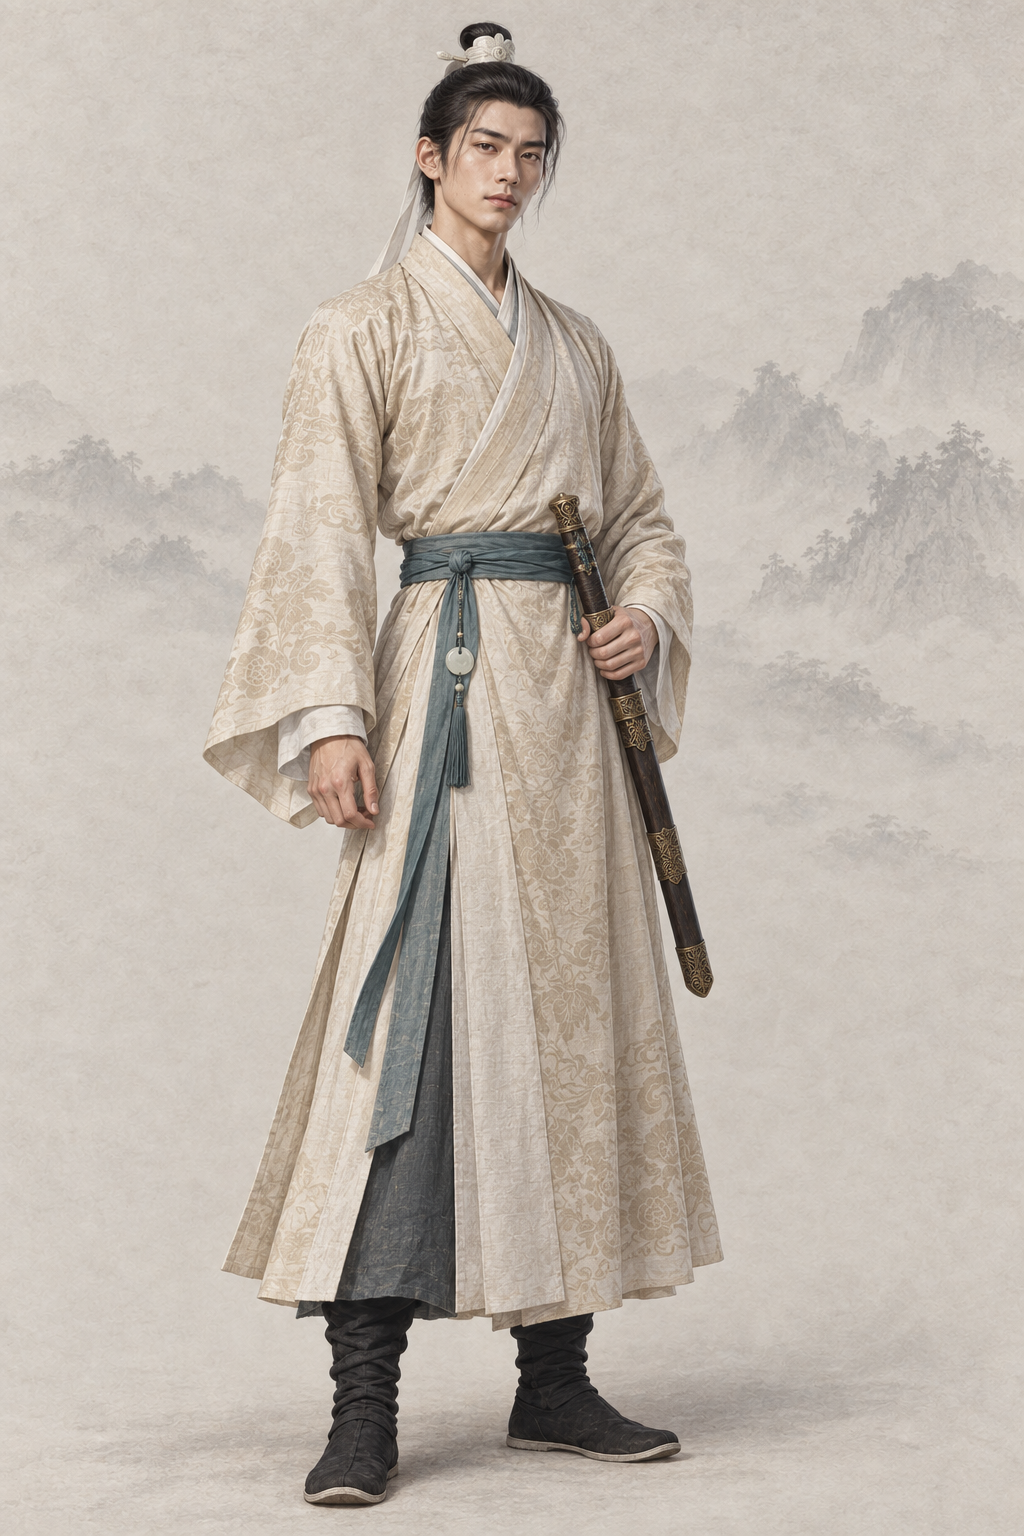
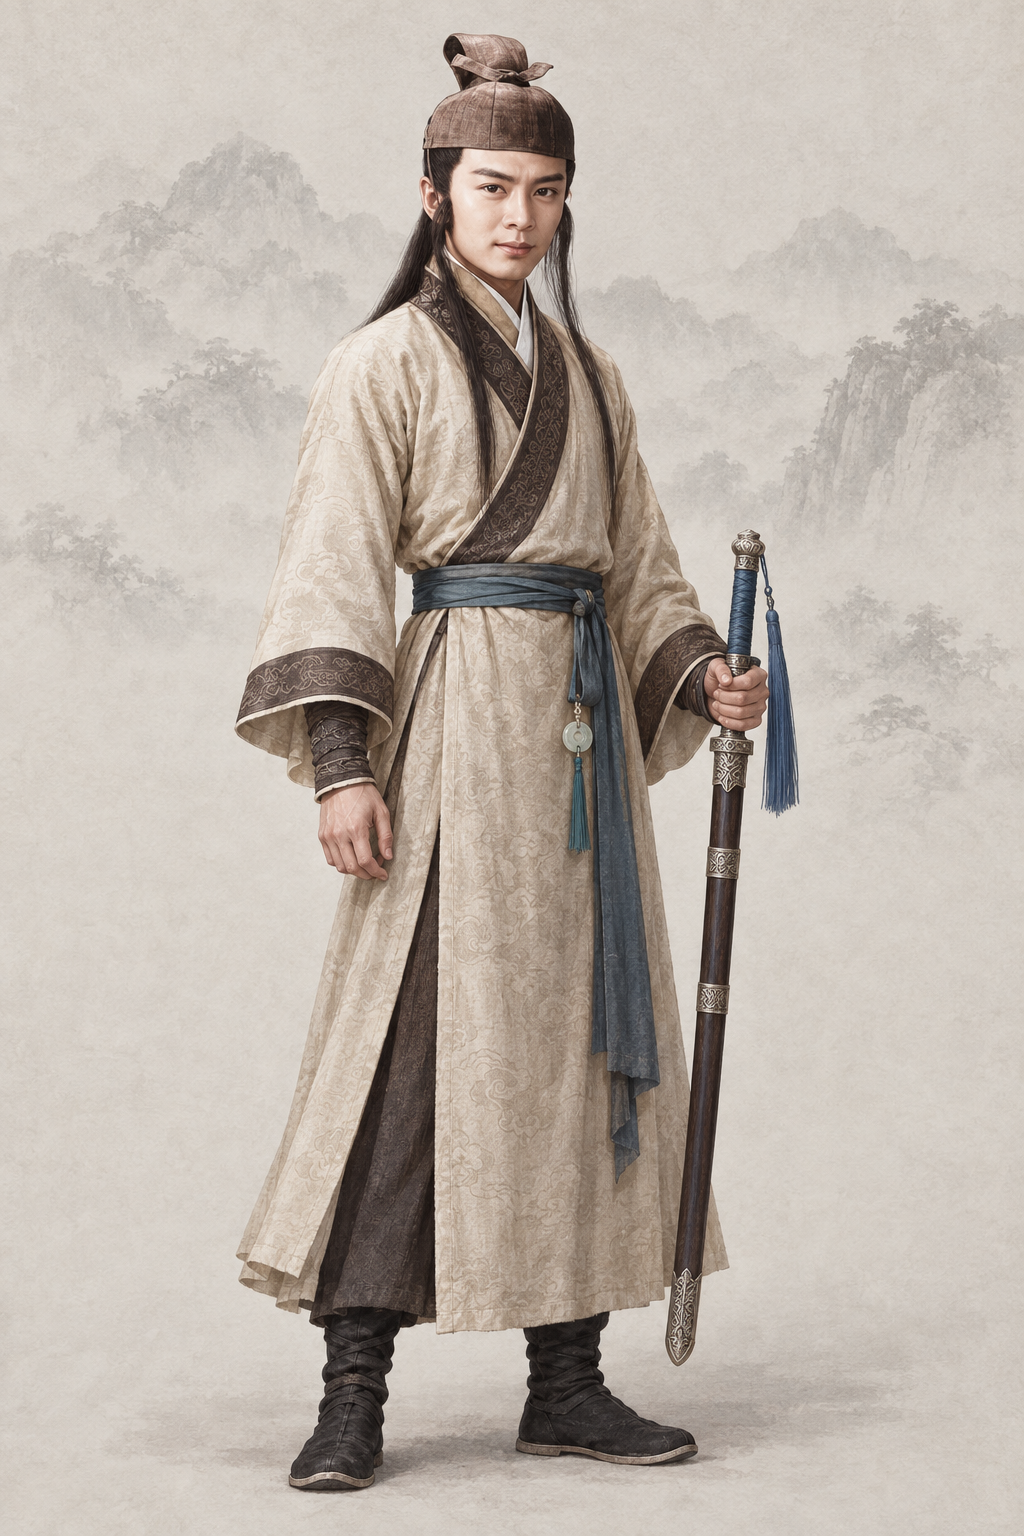
assets(character): por_npc_linpingzhi__ch05_youth_fuwei_base 林平之（codex · AR-32 1996 TVB《笑傲江湖》 剧照 + 基线）
参考 第 1–2 张为 1996 TVB《笑傲江湖》林平之剧照（linpingzhi_1996_hebaosheng_sina1.jpg、sina3.jpg）与两张同性别基线重出；提示词写回、frontmatter 加 classic_ref。

diff --git a/assets/default/prompts/characters/ch05-xiaoao/npc_linpingzhi.md b/assets/default/prompts/characters/ch05-xiaoao/npc_linpingzhi.md
@@ -17,15 +17,45 @@ references:
   use: 第三仅用户指定浅水墨背景、暖浅灰纸底、远景留白；已在本会话实际view且SHA复核。忽略女性脸、身形、衣装、发饰与头部倾角；墨色不能侵蚀人物皮肤衣料或道具。
 status: redo
 redo_reason: "现图是普通相貌、同戴网巾头箍，与令狐冲撞脸；原著林平之俊美得像姑娘，是锦衣骏马的富家少镖头。"
-reference_upload:
-- assets/default/baseline/character/male/ref_npc_linghuchong__ch05_base01.png
 realism_revision: user_identity_pose_20261001
 codex_prompt_rev: 2026-10-02
+reference_upload:
+- .agents/coord/imagegen-reference/identity-20261002/xiaoao/linpingzhi_1996_hebaosheng_sina1.jpg
+- .agents/coord/imagegen-reference/identity-20261002/xiaoao/linpingzhi_1996_hebaosheng_sina3.jpg
+- assets/default/baseline/character/male/ref_npc_linghuchong__ch05_base01.png
+- assets/default/baseline/character/male/ref_npc_xiaofeng__ch01_base01.png
+classic_ref:
+  version: 1996 TVB《笑傲江湖》
+  stills:
+  - .agents/coord/imagegen-reference/identity-20261002/xiaoao/linpingzhi_1996_hebaosheng_sina1.jpg
+  - .agents/coord/imagegen-reference/identity-20261002/xiaoao/linpingzhi_1996_hebaosheng_sina3.jpg
 ---
 
 # 林平之 · 人物写实修正
 
 ## Gemini 提示词
+
+> 2026-10-02 AR-32 重出（8 号出图员，codex exec · image_gen）：主要角色参考经典造型加项目基线生成。上传顺序：第 1–2 张为 1996 TVB《笑傲江湖》林平之剧照（linpingzhi_1996_hebaosheng_sina1.jpg、sina3.jpg），最后两张为同性别画风基线（缩小版 JPEG）。参考图只借造型、气质与面部特征，画面按项目画风重绘、不复制照片或像素图。上一版保留在下一节作历史。
+
+```text
+生成一张 2:3 竖幅全身人物立绘：单人、单一视角、完整全身——头顶、双手、双脚和手中器物的两端都在画面内，四周留出自然空白；人物站姿自然，身体基本朝向正面，头部端正（不歪头、不仰不俯），镜头平视。
+【参考图】第 1–2 张参考图是该角色经典影视造型的剧照：借鉴其发型、服饰、配色、标志道具、气质和面部特征，让人一眼认出是这个角色；但必须重新绘制成项目画风，不要照片质感，不要照搬剧照的构图、光影、背景和姿势，也不要做成照片修图。最后两张是本项目画风基线：画风、用色、光线、质感和暖浅灰纸底加淡水墨背景以它们为准。
+【剧照借鉴要点】取剧照里那顶褐色软布巾帽（帽顶打结）、帽下披肩的乌黑长发、俊秀得近乎秀美的五官、米褐色长衫配深色领缘、蓝色剑穗。姿势和构图按下文的全身立绘来画，不照搬剧照。
+【画风】写实手绘古风人物插画，与本项目写实武侠角色立绘同一画风，像功力深厚的画师用细腻笔触画出的真实人物。手绘插画质感，不是 CG 渲染：不要过度光滑的皮肤、完美对称的五官、塑料高光、过度锐利的发丝；保留自然的笔触和细微不完美。皮肤有真实质感——细小毛孔、细纹、晒痕和自然的左右不对称，不磨皮、不油亮；头发是一缕缕自然的发丝和少量碎发；布料看得出经纬纹理、厚薄和自然垂坠的褶皱，带穿用过的轻微旧化，但完整不破烂；整体设色低饱和、沉稳；柔和的自然光从左上方照来，明暗过渡自然，不打舞台光、轮廓光或美颜柔光。不是照片，不是三维渲染，不是动漫或游戏 CG，也不是油画（没有厚涂笔触和画布纹理）。
+【背景】不透明的暖浅灰色纸底，只在远处有极淡的水墨远山和薄雾，大面积留白；人物与背景明暗分明、轮廓边缘干净完整（后续要自动抠图），水墨和纸纹只在背景里，不侵入人物和衣服；脚下只有很淡的一点接触阴影。
+【人物】林平之，《笑傲江湖》中福威镖局的少镖头，家门遭难之前锦衣骏马的富家公子时期。
+【年龄与体态】约二十岁的成年青年男子，身材修长匀称，肩背尚未厚实，体态挺拔，举止带富家子弟的讲究。
+【经典造型】九十年代经典港剧里的林平之：褐色软布巾帽、长发披肩，一身讲究的米褐色锦缎长衫，腰悬缠蓝丝绳的长剑；俊秀得近乎秀美，带着富家公子的自信与骄气。
+【面容】按剧照：俊美的鹅蛋形脸、下颌线柔和；眉毛浓秀；眼睛明亮、双眼皮，眼神清澈中带几分少爷的骄傲；鼻梁挺直；嘴唇线条清秀；皮肤白净细腻（但有真实的毛孔与纹理）。原著说他俊美得像个姑娘，但仍是成年男子的骨相。
+【发式】头戴一顶褐色软布巾帽（帽顶打一个结），乌黑长发从帽下披到肩后。
+【服饰】米褐色暗纹锦缎交领长衫（右衽，左襟压右襟），深褐色领缘与袖缘；腰系青色丝绦、挂一枚素面小玉佩；深色长裤，黑缎面靴。衣料讲究，完整干净。
+【道具】左手握一柄连鞘长剑（剑柄缠蓝色丝绳、剑鞘有银饰，剑不出鞘），右手自然垂在身侧。
+【姿态与神情】挺拔站立，神情明朗而带一点少年得意。
+【不要】画面里不要任何文字、题款、印章、签名、水印、边框、分格或多视图；不要第二个人；不要幼态（童颜、娃娃脸、婴儿肥、儿童或少年身材、大头小身）；不要塑料感皮肤、磨皮美颜、网红脸（尖下巴大眼高鼻的模板脸）、过度对称、浓妆、偶像式打光、蜡像感；不要照片质感，不要像剧照照片、照片修图或拼贴，不要照搬剧照的背景、光影、构图和姿势；不要三维渲染或动漫大眼；不要歪头、斜镜头；不要多指、缺指（设定的伤残除外）、手与器物粘连或悬空；衣襟必须右衽（穿着者的左襟压在右襟上），不要左衽（设定为少数民族服制的除外），不要水平镜像；不要现代物品、发光特效、法阵或能量光。不要阴鸷狠毒的神情（那是后期）；不要女装、浓妆或女性身体；不要和令狐冲同一张脸；不要清代剃发留辫。
+【画风基线】随提示词上传的参考图里，最后两张是本项目的立绘画风基线：只参考它们的画风、用色、光线、质感和暖浅灰纸底加淡水墨的背景处理，整体画风必须与它们一致——精细写实的数字手绘插画，不是油画，不要厚涂笔触和画布纹理。基线图只取画风，不取长相：不要照搬基线图里人物的长相、年龄、发型、服饰和姿势。
+```
+
+## AR-31 文字版 Gemini 提示词（2026-10-02 凌晨；AR-32 重出之前，历史，不再用于出图）
 
 > 2026-10-02 Codex 人物线 2 号（AR-31）：在审核组稿上补一行「经典形象」（借鉴公认经典造型的发式、装束、配色、标志道具与气质，只写文字，不写演员名、不上传剧照），并补去 AI 化要求。本轮出图用下面第一个代码块；审核组原稿保留在其后的「审核组原稿」小节作历史。
 
